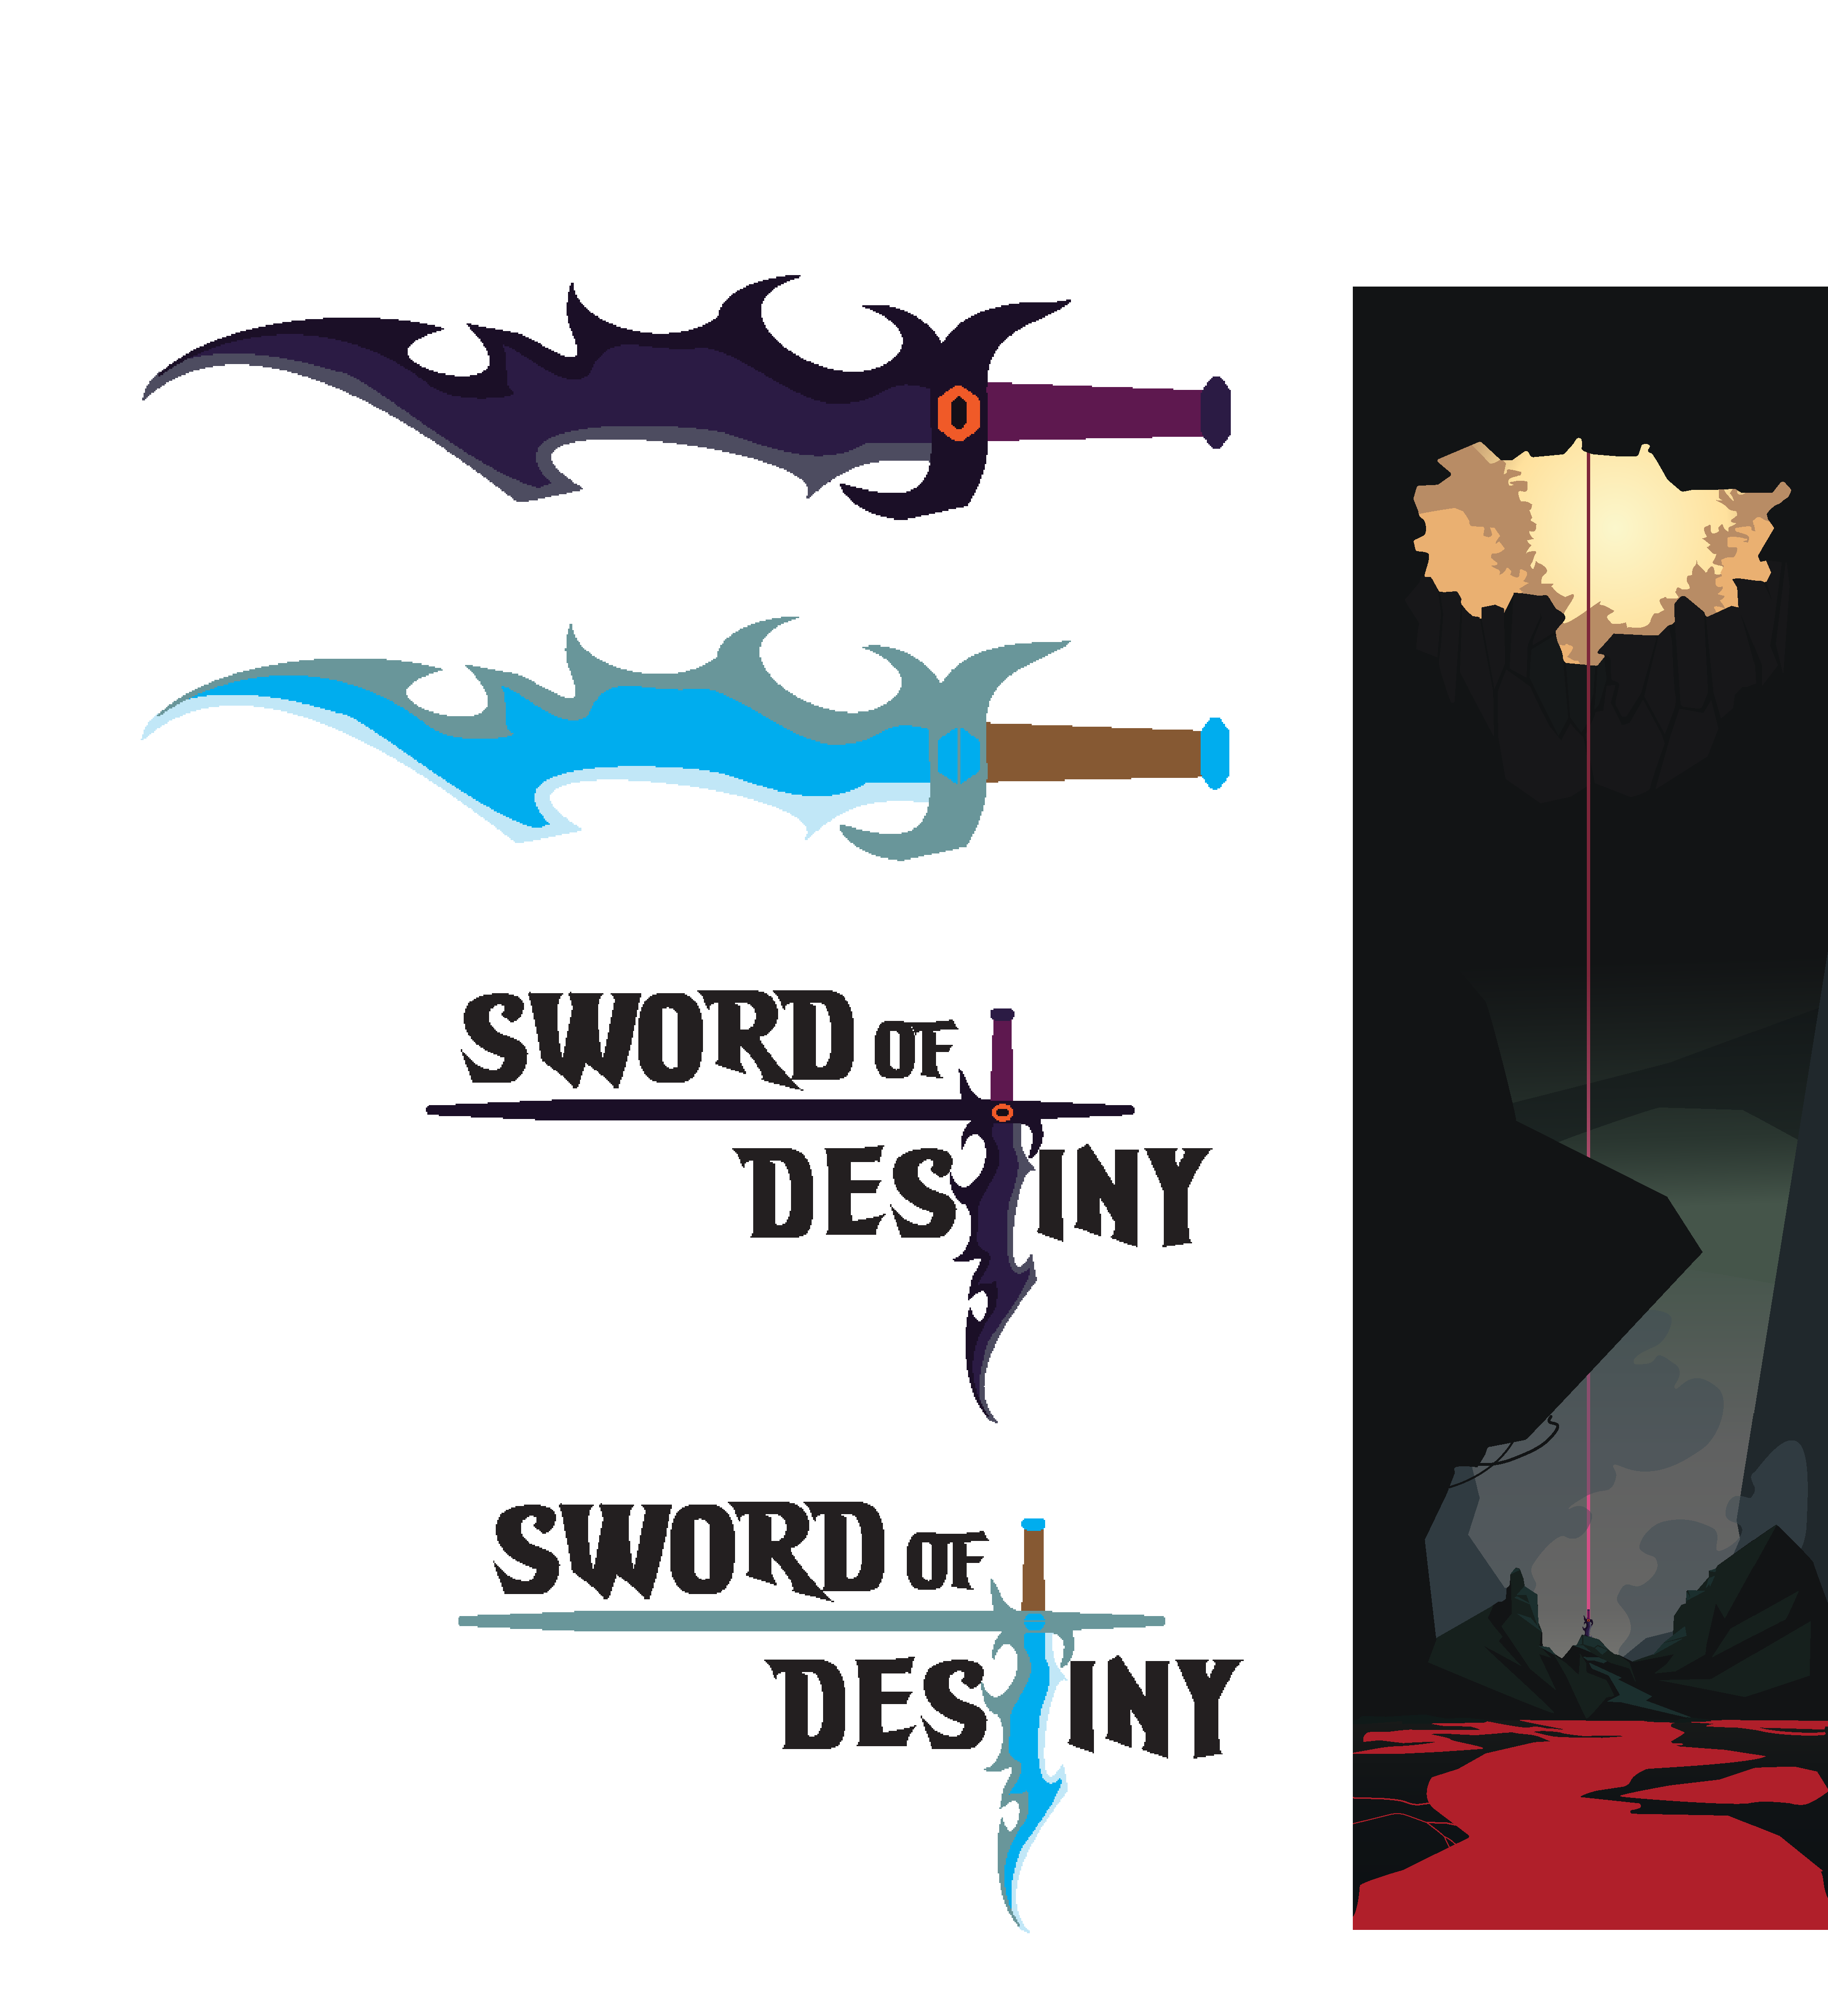
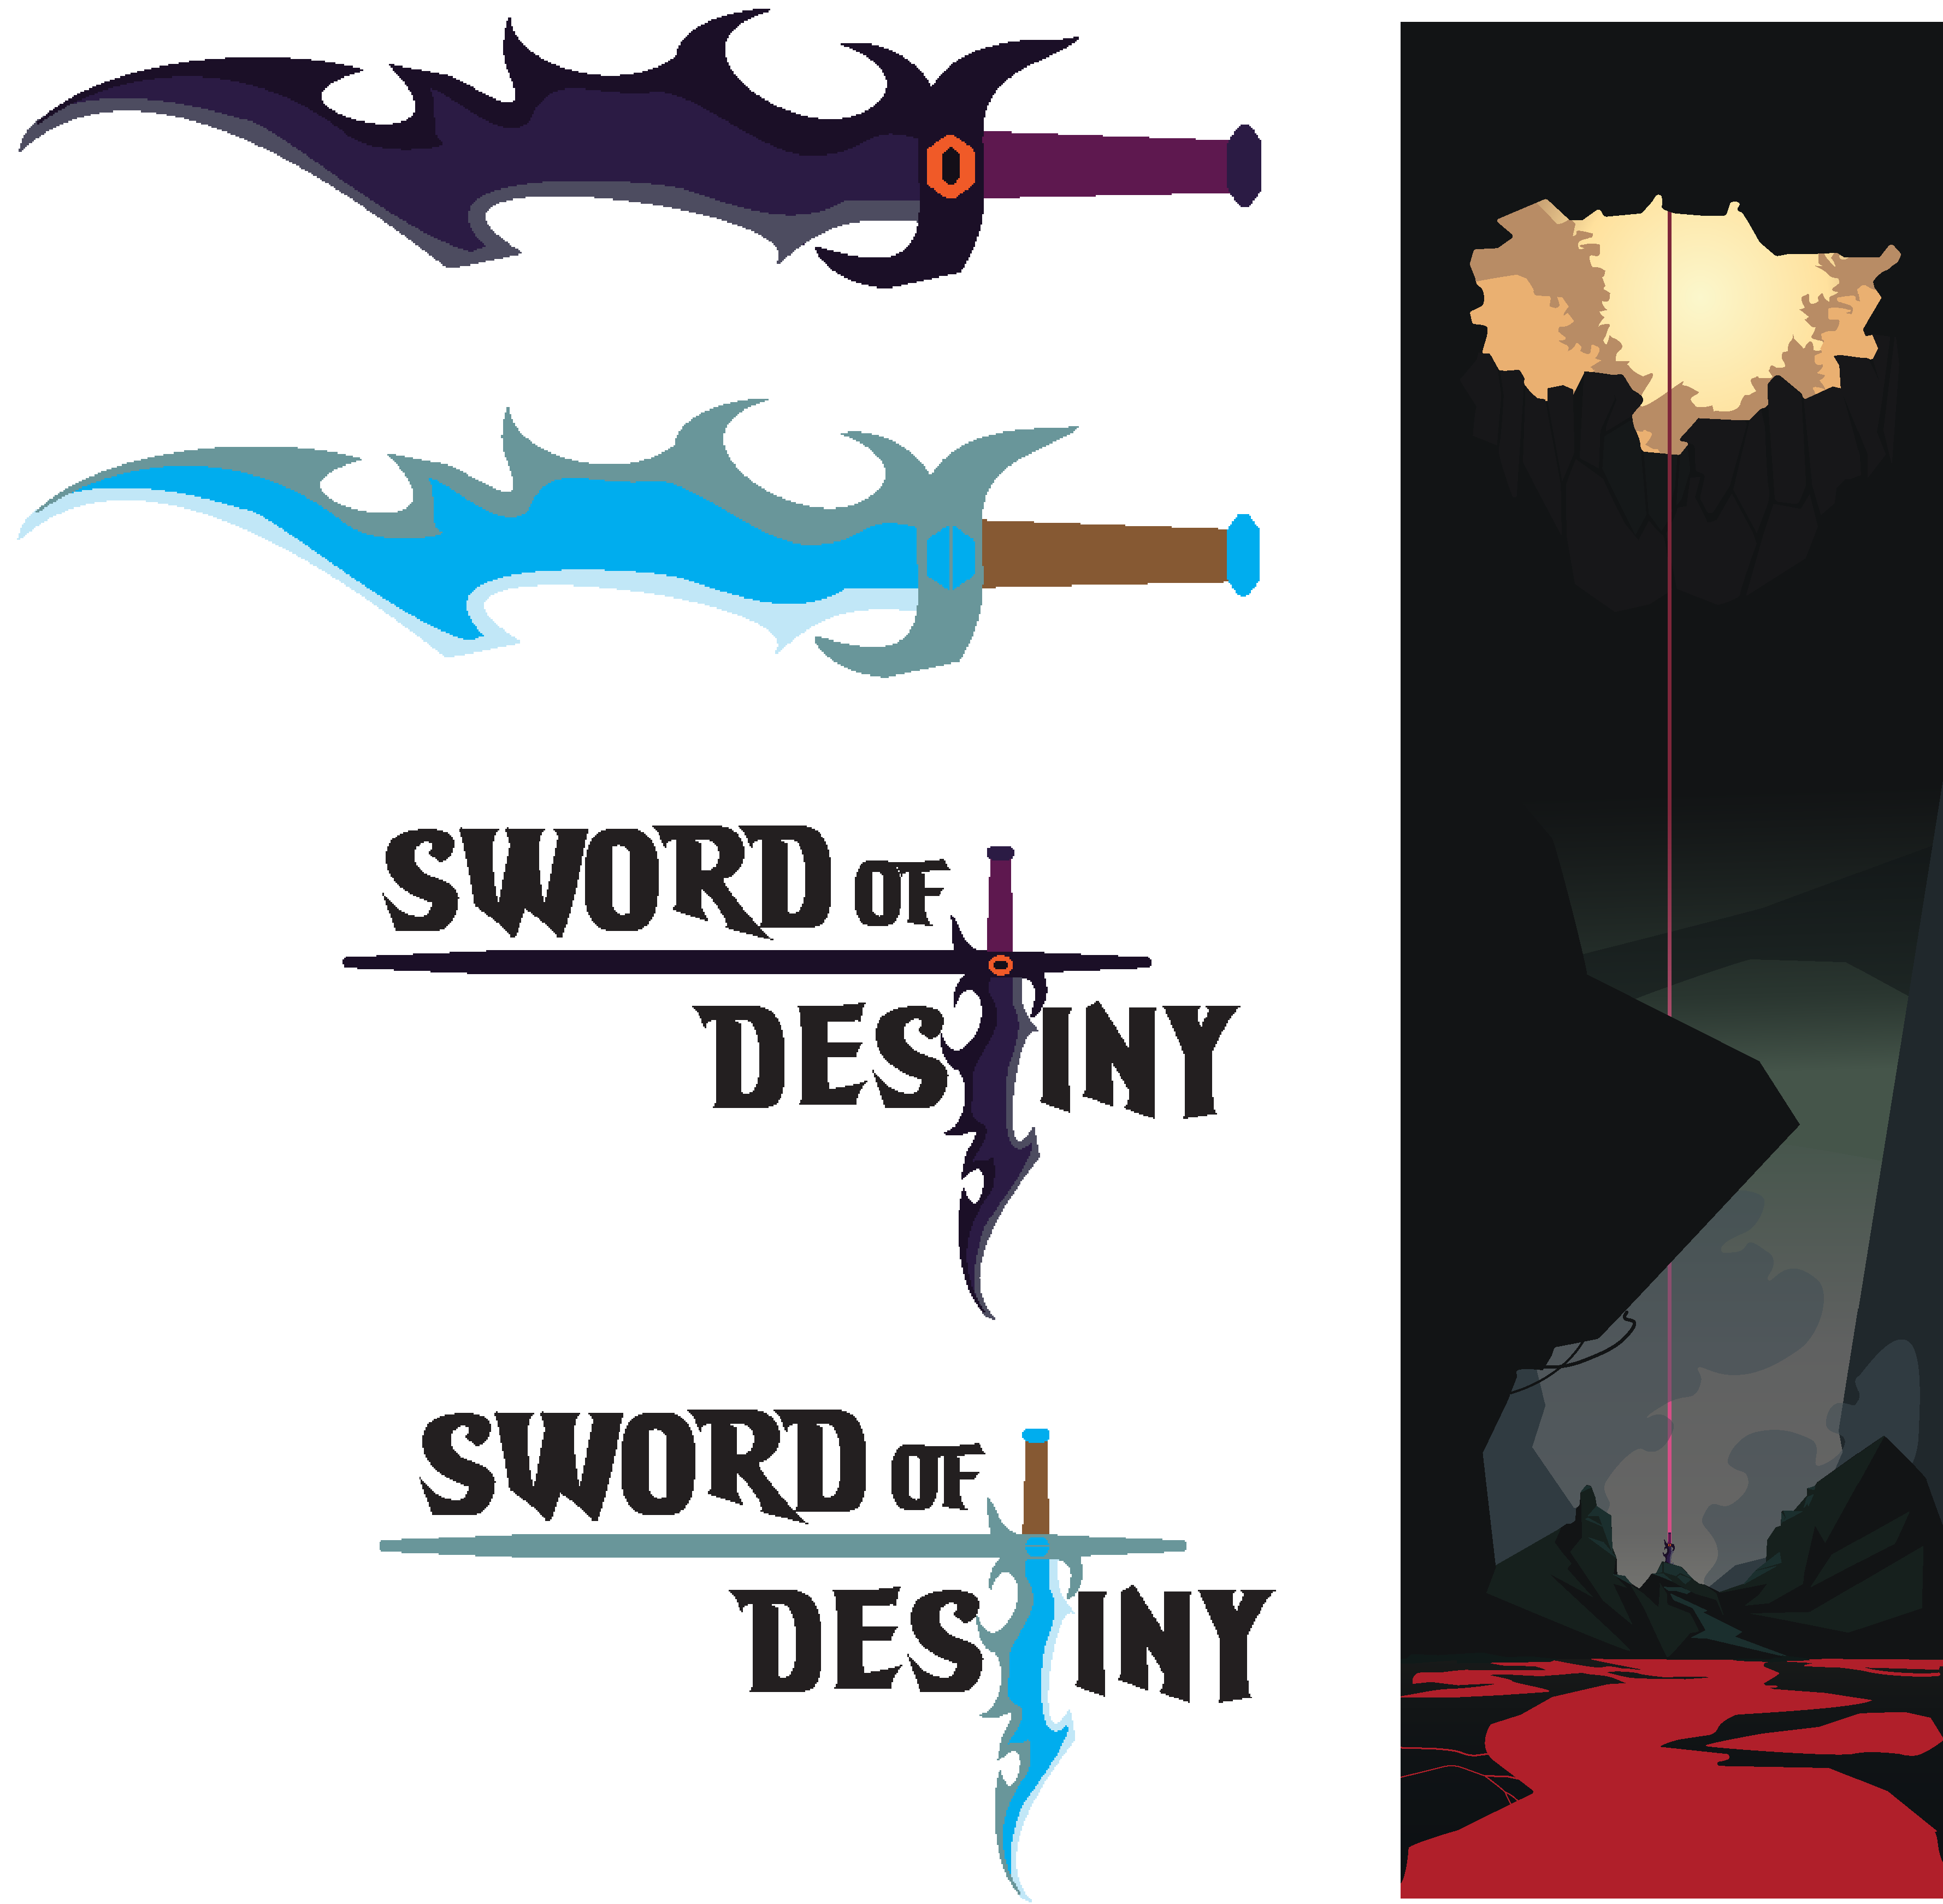
FINISHED MOST PAGES
- only individual portfolio pges left

diff --git a/Portfolio.html b/Portfolio.html
@@ -20,29 +20,55 @@
   </div></div>
 
         <div class="FOLDER_BG"></div>
-      <div class="SD_BG"></div>
-      <div class="FILM_BG"></div>
+      <div class="SD_BG hover"></div>
+      <div class="FILM_BG hover"></div>
 
-<div class="TITLE">PORTFOLIO</div> <br> 
 
-<body class="PORTFOLIO"></body>
-  <section class="PORTFOLIO">
-  
+<section class="PORTFOLIO">
+<div class="TITLE style"> PORTFOLIO</div>
 
-<div class="SOD_ART"></div>
-  <mark class="PORT">SWORD OF DESTINY</mark><br><br>
-  <video width="600" height="340" controls>
-    <source src="images/ROA_SOD.mp4" type="video/mp4">
-    Your browser does not support the video tag.
-    </video>
+  <div class="project sod">
+      <h2>SOD</h2>
+      <p class="h2">
+        A short animation project with assets
+        designed in Adobe Illustrate and edited
+        in After Affects.
+      </p>
+    <div class="image hover">
+      <img src="images/SOD_ART.png">
+    </div>
+  </div>
 
-<div class="MAHARLIKA"><mark class="PORT">MAHARLIKA</mark></div>
-  <div class="MAHARLIKA_IMG"> </div>
-  <div class="MAHA"> FRONT COVER & BACK COVER </div>
-  <div class="MAHAR">CHARACTER DESIGNS </div>
 
-<div class="RECORD"><mark class="PORT">ONLINE RECORD STORE</mark></div>
-  <div class="RECORD_IMG"></div>
+  <div class="project maharlika">
+    <h2>Maharlika</h2>
+
+    <p class="h2">
+      A story set in a dystopian society,
+      Maharlika, is a nation ruined by those in power
+      with the pleas of the poor lost in the turmoil
+      of power and greed. The poor get poorer and the rich only get richer.
+    </p>
+    <div class="image hover">
+          <img src="images/MAHARLIKA.png">
+    </div>
+  </div>
+
+
+  <div class="project record">
+    <h2>Record Store</h2>
+
+    <p class="h2">
+      The Needle and Groove is a e-commerce website 
+      with a video game-inspired interface made to
+      cater a more interactive shopping experience
+    </p>
+      <div class="image hover">
+          <img src="images/RECORD.png">
+    </div>
+  </div>
+
+
 </section>
 
 </html>

diff --git a/About.html b/About.html
@@ -54,8 +54,8 @@
         <div class="ABOUT">
         <div class="EXP">
         <p class="EXPTEXT">
-          <b style="font-size: 30px; color: brown;">Experience & Academic projects</b>
-          <br><br>
+          <b style="font-size: 30px;"><u>Experience & Academic projects</b>
+          <br><br></u>
           <b>Kasa del Tura [2024-2025]<br>
           Makeup artist</b><br>
           - Applied makeup looks and touch-ups for multiple organization photoshoots. <br><br>
@@ -75,8 +75,8 @@
           - Created a collaborative space for students to contribute in<br>
           <br><br><br><br>
           
-          <b style="font-size: 30px; color: brown;">Experience & Academic projects</b>
-          <br><br>
+          <b style="font-size: 30px;"><u>Experience & Academic projects</b>
+          <br><br></u>
           <b>iACADEMY, Cebu [2024-Present] <br>
           Bachelor of Arts in Multimedia Arts and Design</b><br><br>
 
@@ -102,9 +102,9 @@
 <footer>      
   <div= class="footer">
           [phone redacted] <img class="phone " src="images/LOGO/PHONE.png"><br>
-          Panjee Diaz Roa <img src="images/LOGO/FB.png"> <br>
-          [email redacted] <img src="images/LOGO/MAIL.png"><br>
-          Banilad, Cebu City, Philippines <img src="images/LOGO/LOCATION.png"> <br>
+          Panjee Diaz Roa <img class="logo" src="images/LOGO/FB.png"> <br>
+          [email redacted] <img class="logo" src="images/LOGO/MAIL.png"><br>
+          Banilad, Cebu City, Philippines <img class="logo" src="images/LOGO/LOCATION.png"> <br>
           </p></div>
       <div class="footerr"><br>
           @2026 Roa All Rights Reserved

diff --git a/Contact.html b/Contact.html
@@ -23,9 +23,9 @@
       <div class="SD_BG hover"></div>
       <div class="FILM_BG hover"></div>
 
-<div class="TITLE" style="font-size: 60px; padding-top: 50px;">Interested? Contact me!</div> <br> 
 
 <div class="CONTACTPAGE">
+<div class="TITLE style" style=" color: #f8ce65;"> Interested? Contact me!</div>
 <div class="CONTACT">
 
 <center>